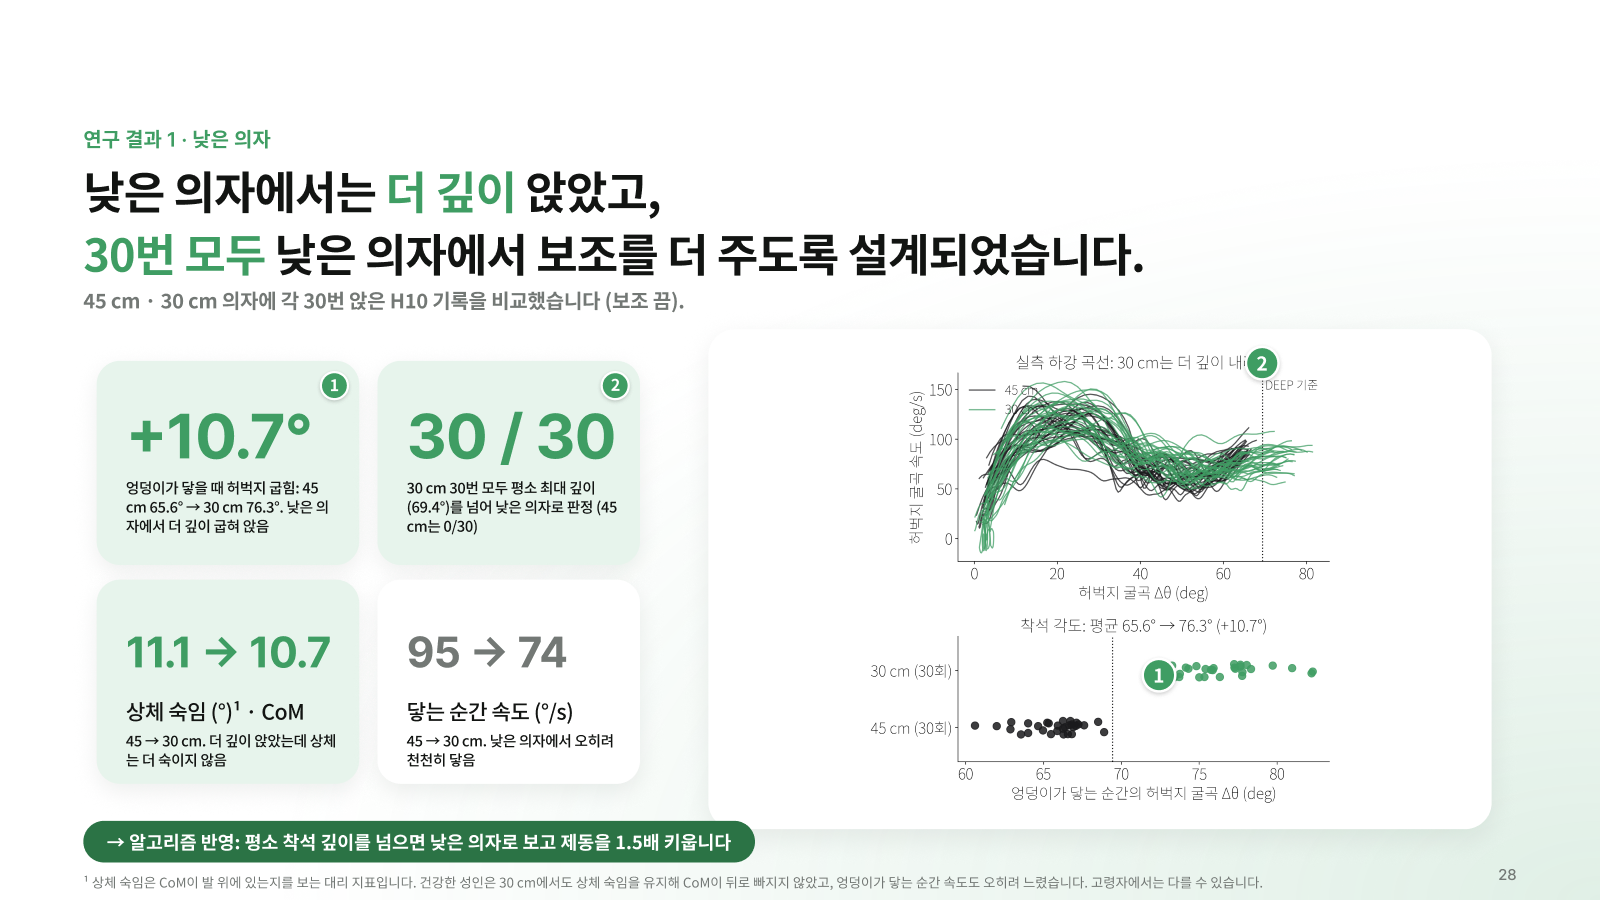
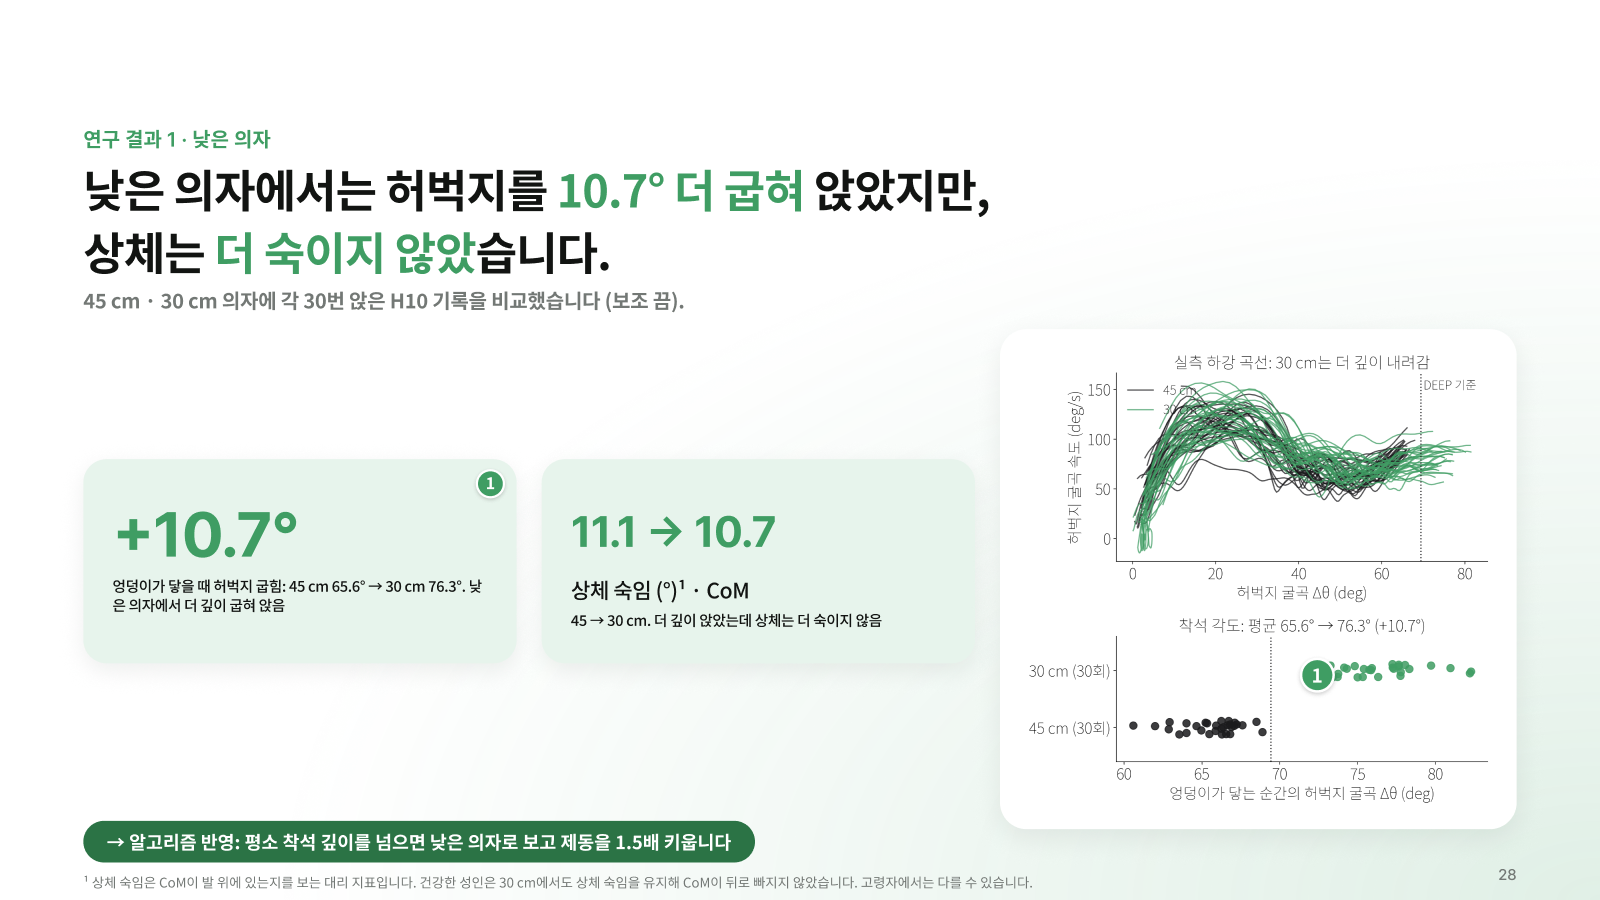
Slides 28-29: keep research findings only, match script wording
Move the 30/30 low-chair detection to the assist result (slide 36),
drop the contact-speed card, three-in-a-row then two-card layout,
simplify slide 29 captions to what the script says.

diff --git a/presentation/발표_흐름.md b/presentation/발표_흐름.md
@@ -37,7 +37,7 @@ Figma Slides: https://www.figma.com/slides/4tZDoTD6FXxpx83Z0kraKR
 | 25 | DATA · 카메라 + H10 | 카메라와 H10을 함께 기록했습니다 | |
 | 26 | 간지 PART 04 | 연구 결과 | 낮은 의자 · CoM과 H10 비교 · 착석 전 판정 |
 | 27 | 연구 결과 · OVERVIEW | 세 가지 질문으로 연구 결과를 정리했습니다 | ① 허벅지 10.7° 더 굽혀짐 ② 60회: 충격 · 속도 ρ ≈ −0.6, H10 추정 CoM r 0.74 ③ 착석 1초 전 판정 성공 |
-| 28 | 연구 결과 1 · 낮은 의자 | 낮은 의자에서는 더 깊이 앉았고 … | → 반영: 평소 깊이를 넘으면 낮은 의자, 제동 × 1.5 |
+| 28 | 연구 결과 1 · 낮은 의자 | 낮은 의자에서는 허벅지를 10.7° 더 굽혀 앉았지만, 상체는 더 숙이지 않았습니다 | 카드 2개(+10.7°, 상체 숙임 11.1 → 10.7). 30/30 판정은 36번 보조 결과로 옮김. → 반영: 평소 깊이를 넘으면 낮은 의자, 제동 × 1.5 |
 | 29 | 연구 결과 2 (1/2) | 세 세트 60회를 합쳐도 H10 신호는 카메라 CoM 변화를 따라갔습니다 | 첫 번째 피험자 45 · 30 cm + 두 번째 피험자 30 cm. 상체 숙임 ρ 0.45(첫 번째 0.72, 두 번째 0.40) · 충격 −0.61 · 최대 속도 −0.60. 재현: `pool_com_h10.py` |
 | 30 | 연구 결과 2 (2/2) | H10만으로 추정한 CoM은 카메라 CoM과 r = 0.74로 맞았습니다 (60회) | 세트별 0.87 · 0.96 · 0.57, 털썩 깊이 덜 잡음(−0.30 vs −0.48) |
 | 31 | 연구 결과 3 | H10은 털썩 주저앉기를 착석 약 1초 전에 알아챘습니다 | 11/11, 중앙값 1.0초, 오판정 1/9, 제동은 닿기 전 0/11. → 반영: 판정 즉시 제동 연결 (2차 실측에서 확인) |
